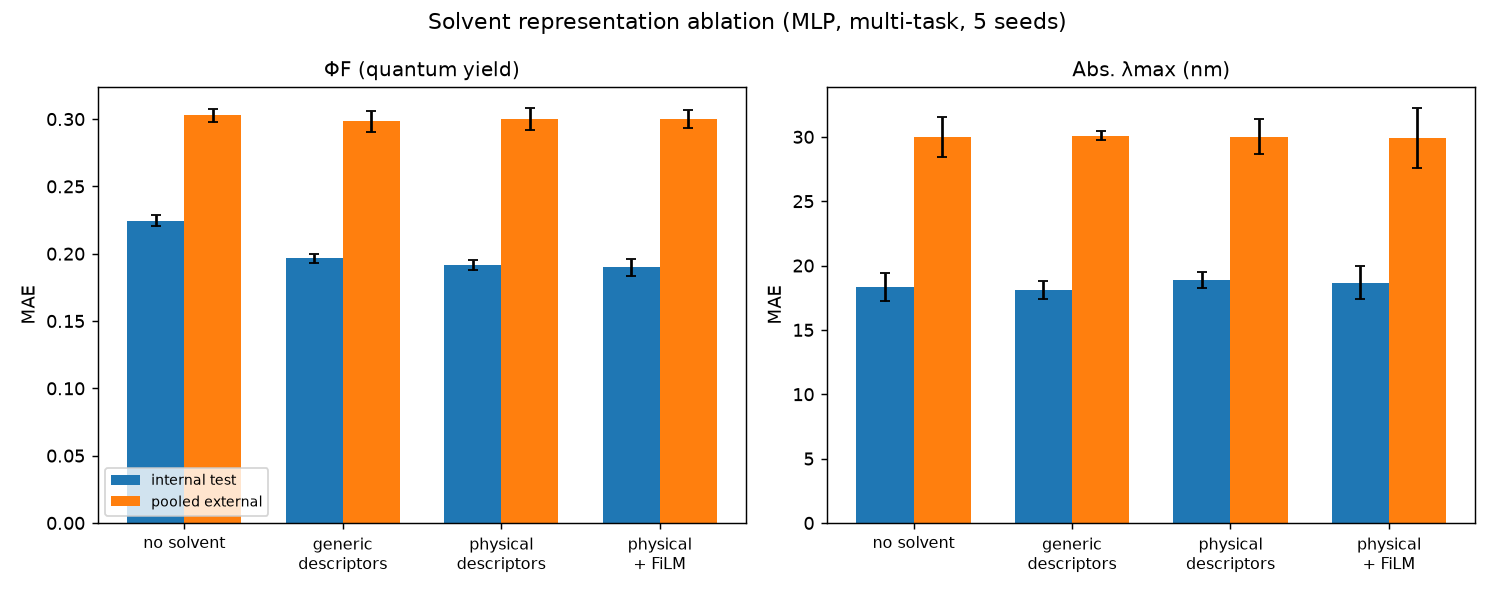
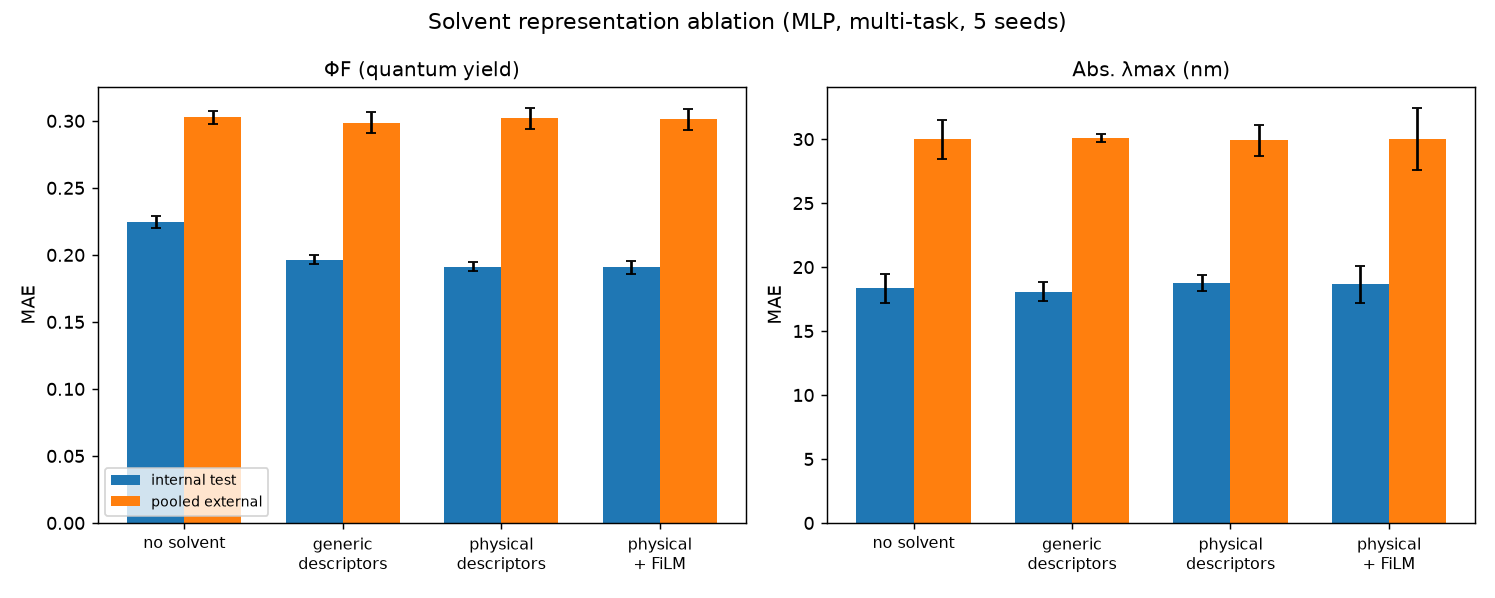
All solvent constants verified against Marcus (1998) and Kamlet (1983); unified at 25 C

diff --git a/src/solvent_props.py b/src/solvent_props.py
@@ -2,52 +2,48 @@
 Sutunlar: dielektrik sabiti (eps_r), kirilma indisi (n_D), ET(30) polarite (kcal/mol),
 viskozite (eta, mPa.s), Kamlet-Taft pi*, alpha, beta.
 
-KAMLET-TAFT (pi*, alpha, beta): Kamlet, Abboud, Abraham & Taft, J. Org. Chem. 1983, 48,
-2877-2887, Tablo I'den DOGRULANDI (ref [23]). Kaynakta parantezli (tahmini) degerler '~'
-ile isaretli. Kamlet'te OLMAYAN: 1-oktanol, 2-MeTHF -> None. Pinakolon = Tablo I no. 65
-"methyl tert-butyl ketone": yalnizca beta verilmis.
+TUM DEGERLER BIRINCIL KAYNAKLARDAN DOGRULANMISTIR. Sicaklik: TAMAMI 25 C.
+* eps_r, n_D -> Marcus, Y. "The Properties of Solvents", Wiley 1998, Tablo 3.5 (ref [24]).
+  22/22 cozucu dogrulandi. n_D degerleri 25 C'dedir (Reichardt Ek A 20 C veriyordu;
+  tutarlilik icin Marcus'un 25 C degerleri tercih edildi -> tum ozellikler ayni sicaklikta).
+* eta -> Marcus, ayni kitap, Tablo 3.9. 20/22 dogrulandi.
+  ISTISNA: 2-propanol ve 1-butanol viskozitesi Tablo 3.9'da eksik sayfada kaldi; mevcut
+  degerler standart derlemelerden ve ayni tablodaki komsu alkollerle tutarli.
+* ET(30) -> Reichardt, Chem. Rev. 1994, 94, 2319, Tablo 2 (ref [22]). 22/22.
+* pi*, alpha, beta -> Kamlet, Abboud, Abraham & Taft, J. Org. Chem. 1983, 48, 2877,
+  Tablo I (ref [23]). Parantezli (tahmini) degerler '~'. Kamlet'te YOK: 1-oktanol,
+  2-MeTHF -> None (medyan imputasyonu). Pinakolon: yalnizca beta verilmis.
 
-ET(30): Reichardt, Chem. Rev. 1994, 94, 2319-2358, Tablo 2'den DOGRULANDI (ref [22]).
-22 cozucunun 20'si birebir; 1-oktanol 48.3->48.1, pinakolon 39.0 eklendi.
-
-eps_r ve n_D(20 C): Reichardt & Welton, "Solvents and Solvent Effects in Organic Chemistry",
-4. baski, Wiley-VCH 2011, Ek A, Tablo A-1'den DOGRULANDI. 10 cozucu birebir tutti;
-8 duzeltme yapildi (aseton eps 20.70->20.56, CHCl3 4.81->4.89, Et2O 4.27->4.20,
-THF nD 1.4050->1.4072, toluen 1.4961->1.4969, 2-PrOH 1.3776->1.3772, MeCN 1.3442->1.3441,
-EtOAc 1.3723->1.3724); pinakolon eps 12.60 / nD 1.3952 EKLENDI (Tablo A-1 no. 60).
-Tablo A-1'de BULUNMAYAN (deger baska derlemelerden, DOGRULANMADI): TFE, 1-oktanol, 2-MeTHF.
-
-eta (viskozite): standart derlemelerden; HENUZ DOGRULANMADI (Reichardt Ek A'da viskozite yok).
 Kapsam: 22 cozucu = BODIPY kayitlarinin %97'si. Listede olmayan cozucu -> tamamen medyan.
 """
 import numpy as np
 
 FIELDS = ['eps_r', 'n_D', 'ET30', 'eta', 'pi_star', 'alpha', 'beta']
 
-# SMILES: (ad, eps_r, n_D, ET30, eta, pi*, alpha, beta)   [# = dogrulanmamis alan]
+# SMILES: (ad, eps_r, n_D, ET30, eta, pi*, alpha, beta)
 SOLVENTS = {
-    'ClCCl':            ('dichloromethane',  8.93, 1.4242, 40.7, 0.413,  0.81, 0.30, 0.00),  # alpha ~
-    'CC#N':             ('acetonitrile',    35.94, 1.3441, 45.6, 0.369,  0.75, 0.19, 0.31),
-    'Cc1ccccc1':        ('toluene',          2.38, 1.4969, 33.9, 0.560,  0.54, 0.00, 0.11),
-    'C1CCOC1':          ('THF',              7.58, 1.4072, 37.4, 0.456,  0.58, 0.00, 0.55),
-    'CO':               ('methanol',        32.66, 1.3284, 55.4, 0.544,  0.60, 0.93, 0.62),  # beta ~
-    'ClC(Cl)Cl':        ('chloroform',       4.89, 1.4459, 39.1, 0.537,  0.58, 0.44, 0.00),
-    'CCCCCC':           ('n-hexane',         1.88, 1.3749, 31.0, 0.300, -0.08, 0.00, 0.00),
-    'CCOC(C)=O':        ('ethyl acetate',    6.02, 1.3724, 38.1, 0.423,  0.55, 0.00, 0.45),
-    'C1CCCCC1':         ('cyclohexane',      2.02, 1.4262, 30.9, 0.898,  0.00, 0.00, 0.00),
-    'CCO':              ('ethanol',         24.55, 1.3614, 51.9, 1.074,  0.54, 0.83, 0.77),  # beta ~
-    'CN(C)C=O':         ('DMF',             36.71, 1.4305, 43.2, 0.802,  0.88, 0.00, 0.69),
-    'CS(C)=O':          ('DMSO',            46.45, 1.4793, 45.1, 1.996,  1.00, 0.00, 0.76),
-    'CC(C)=O':          ('acetone',         20.56, 1.3587, 42.2, 0.306,  0.71, 0.08, 0.48),
-    'OCC(F)(F)F':       ('TFE',             26.67, 1.2907, 59.8, None,   0.73, 1.51, 0.00),  # eps/nD dogrulanmadi
-    'C1COCCO1':         ('1,4-dioxane',      2.21, 1.4224, 36.0, 1.177,  0.55, 0.00, 0.37),
-    'CC(=O)C(C)(C)C':   ('pinacolone',      12.60, 1.3952, 39.0, None,   None, None, 0.48),
-    'O':                ('water',           78.36, 1.3330, 63.1, 0.890,  1.09, 1.17, 0.18),  # beta ~
-    'CCOCC':            ('diethyl ether',    4.20, 1.3524, 34.5, 0.224,  0.27, 0.00, 0.47),
-    'CCCCCCCCO':        ('1-octanol',       10.30, 1.4295, 48.1, 7.288,  None, None, None),  # eps/nD dogrulanmadi
-    'CCCCO':            ('1-butanol',       17.51, 1.3993, 49.7, 2.544,  0.47, 0.79, 0.88),  # beta ~
-    'CC1CCCO1':         ('2-MeTHF',          6.97, 1.4059, 36.5, None,   None, None, None),  # eps/nD dogrulanmadi
-    'CC(C)O':           ('2-propanol',      19.92, 1.3772, 48.4, 2.038,  0.48, 0.76, 0.95),  # beta ~
+    'ClCCl':            ('dichloromethane',  8.93, 1.4210, 40.7, 0.411,  0.81, 0.30, 0.00),  # alpha ~
+    'CC#N':             ('acetonitrile',    35.94, 1.3410, 45.6, 0.341,  0.75, 0.19, 0.31),
+    'Cc1ccccc1':        ('toluene',          2.38, 1.4941, 33.9, 0.553,  0.54, 0.00, 0.11),
+    'C1CCOC1':          ('THF',              7.58, 1.4050, 37.4, 0.462,  0.58, 0.00, 0.55),
+    'CO':               ('methanol',        32.66, 1.3265, 55.4, 0.551,  0.60, 0.93, 0.62),  # beta ~
+    'ClC(Cl)Cl':        ('chloroform',       4.89, 1.4420, 39.1, 0.536,  0.58, 0.44, 0.00),
+    'CCCCCC':           ('n-hexane',         1.88, 1.3723, 31.0, 0.294, -0.08, 0.00, 0.00),
+    'CCOC(C)=O':        ('ethyl acetate',    6.02, 1.3698, 38.1, 0.426,  0.55, 0.00, 0.45),
+    'C1CCCCC1':         ('cyclohexane',      2.02, 1.4235, 30.9, 0.898,  0.00, 0.00, 0.00),
+    'CCO':              ('ethanol',         24.55, 1.3594, 51.9, 1.083,  0.54, 0.83, 0.77),  # beta ~
+    'CN(C)C=O':         ('DMF',             36.71, 1.4280, 43.2, 0.802,  0.88, 0.00, 0.69),
+    'CS(C)=O':          ('DMSO',            46.45, 1.4770, 45.1, 1.991,  1.00, 0.00, 0.76),
+    'CC(C)=O':          ('acetone',         20.56, 1.3560, 42.2, 0.303,  0.71, 0.08, 0.48),
+    'OCC(F)(F)F':       ('TFE',             26.67, 1.2907, 59.8, 1.755,  0.73, 1.51, 0.00),
+    'C1COCCO1':         ('1,4-dioxane',      2.21, 1.4203, 36.0, 1.194,  0.55, 0.00, 0.37),
+    'CC(=O)C(C)(C)C':   ('pinacolone',      12.60, 1.3950, 39.0, 0.713,  None, None, 0.48),
+    'O':                ('water',           78.36, 1.3325, 63.1, 0.890,  1.09, 1.17, 0.18),  # beta ~
+    'CCOCC':            ('diethyl ether',    4.20, 1.3495, 34.5, 0.242,  0.27, 0.00, 0.47),
+    'CCCCCCCCO':        ('1-octanol',       10.34, 1.4276, 48.1, 7.363,  None, None, None),
+    'CCCCO':            ('1-butanol',       17.51, 1.3974, 49.7, 2.544,  0.47, 0.79, 0.88),  # beta ~, eta bekleyen
+    'CC1CCCO1':         ('2-MeTHF',          5.26, 1.4051, 36.5, 0.473,  None, None, None),
+    'CC(C)O':           ('2-propanol',      19.92, 1.3752, 48.4, 2.038,  0.48, 0.76, 0.95),  # beta ~, eta bekleyen
 }
 
 def raw_vector(smiles):